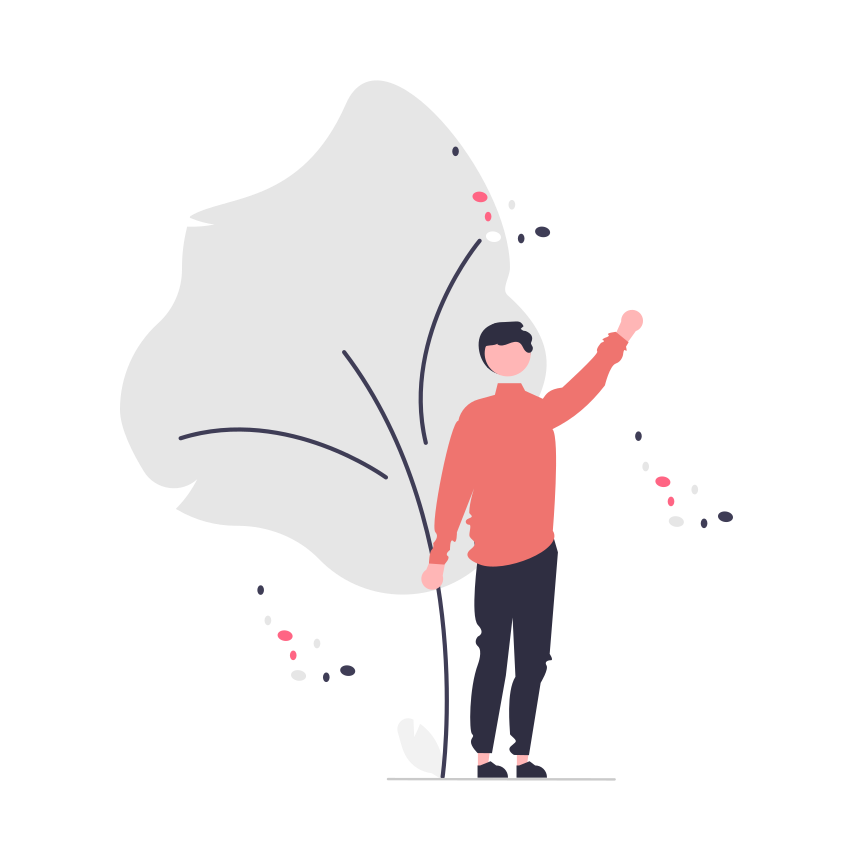
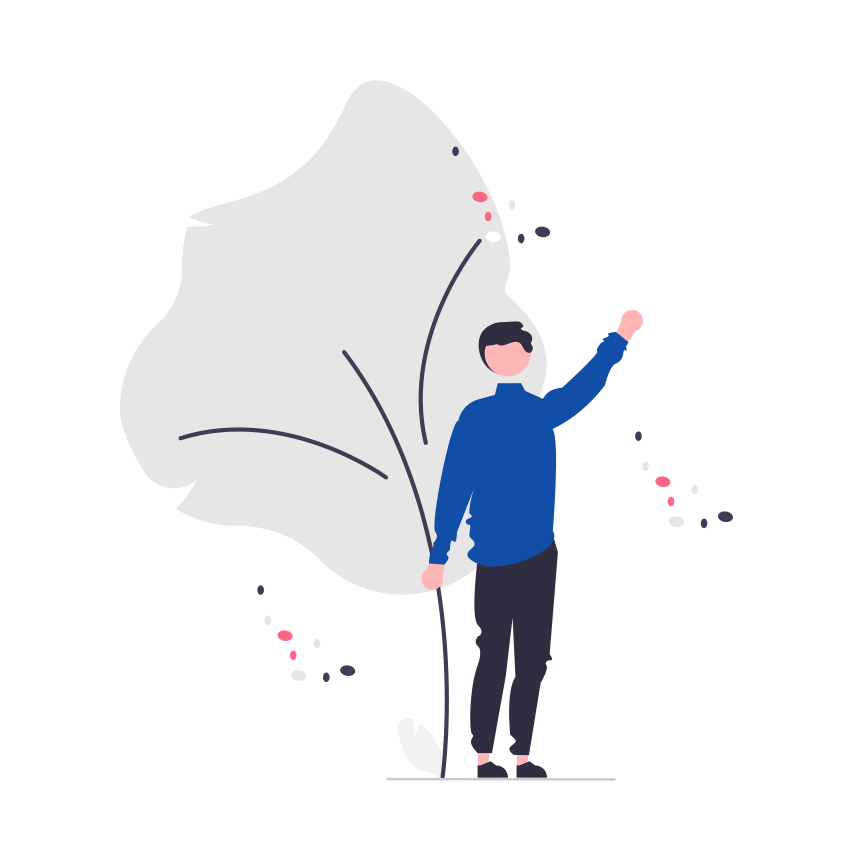
Carrosel finalizado

Changed region(s): [[0.4877, 0.3624, 0.7315, 0.6643]]

diff --git a/src/app/onBording/onBording.tsx b/src/app/onBording/onBording.tsx
@@ -1,8 +1,11 @@
 import { View, Text, FlatList, StyleSheet, Animated } from "react-native";
-import { OnBordingItem } from "./onBordingItem";
 import React, { useState, useRef } from "react";
-import slides from "@/slides";
+import { OnBordingItem } from "./onBordingItem";
+import { NextButton } from "./nextButton";
 import { Paginator } from "./paginator";
+import slides from "@/slides";
+import { CurrentRenderContext } from "@react-navigation/native";
+
 export function OnBording() {
   const [currentIndex, setCurrentIndex] = useState(0);
   const scrollX = useRef(new Animated.Value(0)).current;
@@ -11,8 +14,16 @@ export function OnBording() {
     setCurrentIndex(viewableItems[0].index);
   }).current;
 
-  const slidesRef = useRef(null);
+  const slidesRef = useRef<FlatList>(null);
   const viewConfig = useRef({ viewAreaCoveragePercentThreshold: 50 }).current;
+  const scrollTo = () => {
+    if (currentIndex < slides.length - 1) {
+      slidesRef.current?.scrollToIndex({ index: currentIndex + 1 });
+    } else {
+      console.log("Ultimo item");
+    }
+  };
+
   return (
     <View style={styles.container}>
       <View style={{ flex: 3 }}>
@@ -34,6 +45,7 @@ export function OnBording() {
           ref={slidesRef}
         ></FlatList>
         <Paginator data={slides} scrollX={scrollX}></Paginator>
+        <NextButton scrollTo={scrollTo}></NextButton>
       </View>
     </View>
   );

diff --git a/slides.tsx b/slides.tsx
@@ -11,13 +11,26 @@ export default [
     title: "Crie sua conta para \n começar a praticar",
     description:
       "Tendo uma conta, poderá ver suas conquistas, além de seus melhores tempos e questões resolvidas",
-    image: require("@/assets/images/onBording/undraw_Welcoming.png"),
+    image: require("@/assets/images/onBording/undraw_Sign_in.png"),
   },
   {
     id: "2",
-    title: "Crie sua conta para \n começar a praticar",
+    title: "Aprenda jogando e se divertindo",
     description:
-      "Tendo uma conta, poderá ver suas conquistas, além de seus melhores tempos e questões resolvidas",
-    image: require("@/assets/images/onBording/undraw_Welcoming.png"),
+      "Possuimos os mais diversos tipos de exercicios para todos os níveis",
+    image: require("@/assets/images/onBording/undraw_video_games.png"),
+  },
+  {
+    id: "3",
+    title: "Complete seus objetivos e atinja suas metas",
+    description:
+      "Possuimos os mais diversos tipos de exercicios para todos os níveis",
+    image: require("@/assets/images/onBording/undraw_Choose.png"),
+  },
+  {
+    id: "4",
+    title: "Vamos começar",
+    description: "",
+    image: require("@/assets/images/onBording/undraw_mathematics.png"),
   },
 ];

diff --git a/src/app/index/index.tsx b/src/app/index/index.tsx
@@ -1,3 +1,7 @@
+import { HomeScreen } from "../homeScreen/homeScreen";
+import { OnBording } from "../onBording/onBording";
+import { FontAwesome } from "@expo/vector-icons";
+import { useFonts } from "expo-font";
 import {
   Text,
   View,
@@ -6,16 +10,14 @@ import {
   Button,
   StyleSheet,
 } from "react-native";
-import { MaterialIcons } from "@expo/vector-icons";
-import { OnBording } from "../onBording/onBording";
-import { useFonts } from "expo-font";
-import { colors } from "@/src/styles/colors";
+
 export default function Index() {
   const [loaded, error] = useFonts({
     "Roboto-Medium": require("@/assets/fonts/Roboto-Medium.ttf"),
   });
   return (
     <View style={styles.container}>
+      {/* <FontAwesome name="flag-checkered" size={24} color="black" /> */}
       <OnBording></OnBording>
     </View>
   );
@@ -24,9 +26,7 @@ export default function Index() {
 const styles = StyleSheet.create({
   container: {
     flex: 1,
-    // paddingTop: 62,
     justifyContent: "center",
     alignItems: "center",
   },
-  robotoTitle: {},
 });

diff --git a/src/app/onBording/nextButton.tsx b/src/app/onBording/nextButton.tsx
@@ -1,0 +1,38 @@
+import {
+  View,
+  Text,
+  StyleSheet,
+  TouchableOpacity,
+  Animated,
+} from "react-native";
+import React, { useRef, useEffect } from "react";
+import { AntDesign } from "@expo/vector-icons";
+import { colors } from "@/src/styles/colors";
+
+export function NextButton({ scrollTo }: any) {
+  return (
+    <View style={styles.container}>
+      <TouchableOpacity
+        onPress={scrollTo}
+        style={styles.button}
+        activeOpacity={0.6}
+      >
+        <AntDesign name="arrowright" size={32} color={"#fff"}></AntDesign>
+      </TouchableOpacity>
+    </View>
+  );
+}
+
+const styles = StyleSheet.create({
+  container: {
+    flex: 0.2,
+    justifyContent: "center",
+    alignItems: "center",
+  },
+  button: {
+    position: "absolute",
+    backgroundColor: colors.primaryBlue,
+    borderRadius: 100,
+    padding: 10,
+  },
+});

diff --git a/src/app/onBording/paginator.tsx b/src/app/onBording/paginator.tsx
@@ -1,3 +1,5 @@
+import { colors } from "@/src/styles/colors";
+import React from "react";
 import {
   View,
   Text,
@@ -5,8 +7,6 @@ import {
   Animated,
   useWindowDimensions,
 } from "react-native";
-import React from "react";
-import { Extrapolate } from "react-native-reanimated";
 
 export function Paginator({ data, scrollX }: any) {
   const { width } = useWindowDimensions();
@@ -46,7 +46,7 @@ const styles = StyleSheet.create({
   dot: {
     height: 10,
     borderRadius: 5,
-    backgroundColor: "#493d8a",
+    backgroundColor: colors.primaryBlue,
     marginHorizontal: 8,
   },
 });

diff --git a/src/app/onBording/onBordingItem.tsx b/src/app/onBording/onBordingItem.tsx
@@ -6,6 +6,7 @@ import {
   StyleSheet,
 } from "react-native";
 import React from "react";
+import { colors } from "@/src/styles/colors";
 
 export function OnBordingItem({ item }: any) {
   const { width } = useWindowDimensions();
@@ -34,12 +35,12 @@ const styles = StyleSheet.create({
     fontWeight: "800",
     fontSize: 28,
     marginBottom: 10,
-    color: "#493d8a",
+    color: colors.primaryBlue,
     textAlign: "center",
   },
   description: {
     fontWeight: "300",
-    color: "#62656b",
+    color: "black",
     textAlign: "center",
     paddingHorizontal: 64,
   },

diff --git a/src/app/homeScreen/homeScreen.tsx b/src/app/homeScreen/homeScreen.tsx
@@ -1,0 +1,16 @@
+import { View, Text, StyleSheet } from "react-native";
+import React from "react";
+
+export function HomeScreen() {
+  return (
+    <View>
+      <Text> HOME PAGE </Text>
+    </View>
+  );
+}
+
+const styles = StyleSheet.create({
+  container: {
+    flex: 1,
+  },
+});

diff --git a/src/app/signIn/singIn.tsx b/src/app/signIn/singIn.tsx
@@ -1,0 +1,12 @@
+import { View, Text, StyleSheet } from "react-native";
+import React from "react";
+
+export function SignIn() {
+  return <View></View>;
+}
+
+const styles = StyleSheet.create({
+  container: {
+    flex: 1,
+  },
+});

diff --git a/src/styles/colors.ts b/src/styles/colors.ts
@@ -1,7 +1,3 @@
 export const colors = {
-  color1: "#b3cc57",
-  color2: "#ecf081",
-  color3: "#ffbe40",
-  color4: "#ef746f",
-  color5: "#ab3e5b",
+  primaryBlue: "#114EA8",
 };
